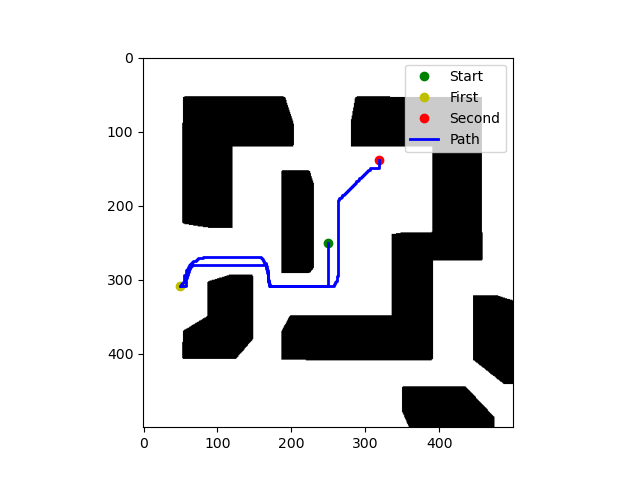
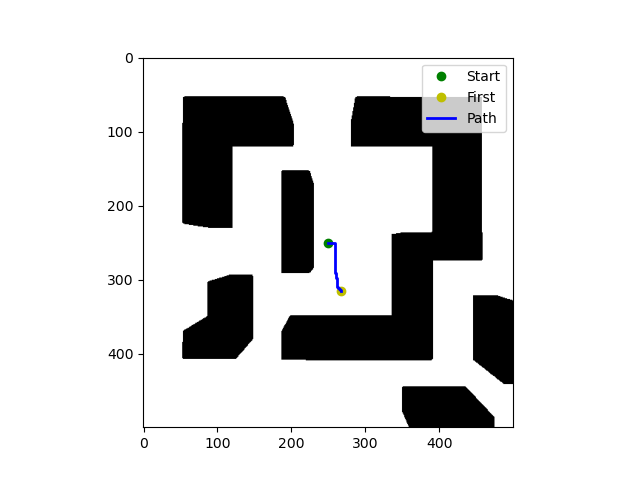
14 marks 2c

diff --git a/src/swift_pico/src/warehouse_service.py b/src/swift_pico/src/warehouse_service.py
@@ -32,7 +32,7 @@ class WayPoints(Node):
 
         self.get_logger().info('Waypoints service started') 
 
-        self.random_points_sub = self.create_subscription(Int32MultiArray, '/random_points', self.get_waypoints, 10)
+        self.package_loc_sub = self.create_subscription(Int32MultiArray, '/package_loc', self.get_waypoints, 10)
 
         self.initial_point = (500, 500)
         self.first_point = None
@@ -63,7 +63,7 @@ class WayPoints(Node):
             self.height, self.width = self.resized_img.shape
         self.initial_point = ((self.initial_point[0] * self.scale), (self.initial_point[1] * self.scale))
         self.first_point = ((self.first_point[0] * self.scale), (self.first_point[1] * self.scale))
-        self.second_point = ((self.second_point[0] * self.scale), (self.second_point[1] * self.scale))
+        # self.second_point = ((self.second_point[0] * self.scale), (self.second_point[1] * self.scale))
 
     def de_adjust_scale(self):
         for iu in range(len(self.paths)):
@@ -74,7 +74,7 @@ class WayPoints(Node):
 
         self.initial_point = ((self.initial_point[0] / self.scale), (self.initial_point[1] / self.scale))
         self.first_point = ((self.first_point[0] / self.scale), (self.first_point[1] / self.scale))
-        self.second_point = ((self.second_point[0] / self.scale), (self.second_point[1] / self.scale))
+        # self.second_point = ((self.second_point[0] / self.scale), (self.second_point[1] / self.scale))
 
         self.resized_img = cv.resize(self.resized_img, (int(self.width / self.scale), int(self.height / self.scale)), interpolation=cv.INTER_NEAREST)
         try:
@@ -123,20 +123,19 @@ class WayPoints(Node):
 
     def get_waypoints(self, msg: Int32MultiArray):
         self.first_point = (msg.data[0], msg.data[1])
-        self.second_point = (msg.data[2], msg.data[3])
 
         self.adjust_scale()
 
         self.get_logger().info(f"Received random points. \nStart point: {self.first_point}, Finish point: {self.second_point}")
 
         path1 = self.get_trajectory(self.initial_point, self.first_point)
-        path2 = self.get_trajectory(self.first_point, self.second_point)
+        # path2 = self.get_trajectory(self.first_point, self.second_point)
 
-        if path1 is None or path2 is None:
+        if path1 is None: #  or path2 is None:
             print("No path found between the points.")
             return
         self.paths.append(path1)
-        self.paths.append(path2)
+        # self.paths.append(path2)
 
         print(len(self.paths))
         # Plot the path on the image
@@ -149,7 +148,7 @@ class WayPoints(Node):
                 plt.imshow(self.resized_img, cmap='gray')
                 plt.plot(int(self.initial_point[0]), int(self.initial_point[1]), 'go', label='Start')  # Start in green
                 plt.plot(int(self.first_point[0]), int(self.first_point[1]), 'yo', label='First')  # Start in green
-                plt.plot(int(self.second_point[0]), int(self.second_point[1]), 'ro', label='Second')   # Goal in red
+                # plt.plot(int(self.second_point[0]), int(self.second_point[1]), 'ro', label='Second')   # Goal in red
                 path = self.intify_path(path)
                 path_x, path_y = zip(*path)
                 plt.plot(path_y, path_x, 'b-', linewidth=2, label='Path')  # Path in blue
@@ -158,7 +157,7 @@ class WayPoints(Node):
                 plt.show()
         else:
             print("No path found between the points.")
-        self.destroy_subscription(self.random_points_sub)
+        self.destroy_subscription(self.package_loc_sub)
         self.de_adjust_scale()
         self.transform_path_pixel_to_whycon()
         
@@ -210,7 +209,7 @@ class WayPoints(Node):
         
         if not self.paths:
             return 
-        self.waypoints = [[1000, 1000]]
+        self.waypoints = []
         self.step = 30
         self.goal_points = [self.paths[i][-1] for i in range(len(self.paths))]
         self.goal_points = [[1000, 1000], [1000, 1000]]

diff --git a/src/swift_pico/src/pico_server_2c.py b/src/swift_pico/src/pico_server_2c.py
@@ -75,7 +75,6 @@ class WayPointServer(Node):
 
         self.sample_time = 0.060
 
-        self.origin = [0.0, 0.0, 27.0, 0.0]
         self.first_point = None
         self.second_point = None
         self.first_done = False
@@ -89,7 +88,7 @@ class WayPointServer(Node):
         #Add other sunscribers here
 
         self.create_subscription(Odometry, '/rotors/odometry', self.odometry_callback, 10)
-        self.random_points_sub = self.create_subscription(Int32MultiArray, '/random_points', self.get_goalpoints, 10)
+        self.random_points_sub = self.create_subscription(Int32MultiArray, '/package_loc', self.get_goalpoints, 10)
 
         #create an action server for the action 'NavToWaypoint'. Refer to Writing an action server and client (Python) in ROS 2 tutorials
         #action name should 'waypoint_navigation'.
@@ -163,10 +162,10 @@ class WayPointServer(Node):
     
     def get_goalpoints(self, msg: Int32MultiArray):
         self.first_point = [msg.data[0], msg.data[1]]
-        self.second_point = [msg.data[2], msg.data[3]]
+        # self.second_point = [msg.data[2], msg.data[3]]
 
         self.first_point = self.transform_point(self.first_point)
-        self.second_point = self.transform_point(self.second_point)
+        # self.second_point = self.transform_point(self.second_point)
 
         print(f"Received goal points. \nStart point: {self.first_point}, Finish point: {self.second_point}")
 
@@ -233,22 +232,13 @@ class WayPointServer(Node):
 
         goal_flag = False
         self.Kp = np.array([20, 20, 20, 0])
-        # if self.first_point is not None:
-        #     goal_flag = self.is_drone_in_sphere(self.first_point, goal_handle, 0.2)
-        #     self.setpoint = self.first_point
-        
-        # if self.second_point is not None:
-        #     goal_flag = self.is_drone_in_sphere(self.second_point, goal_handle, 0.2)
-        #     self.setpoint = self.second_point
 
         if self.setpoint[0] >= 1000:
             goal_flag = True
             if not self.first_done:
-                self.setpoint = self.origin
-                self.first_done = True
-            elif not self.second_done:
                 self.setpoint = self.first_point
-                self.second_done = True
+                self.Kp = np.array([10, 10, 10, 0])
+                self.first_done = True
             else:
                 self.setpoint = self.second_point
                 self.Kp = np.array([5, 5, 5, 0])
